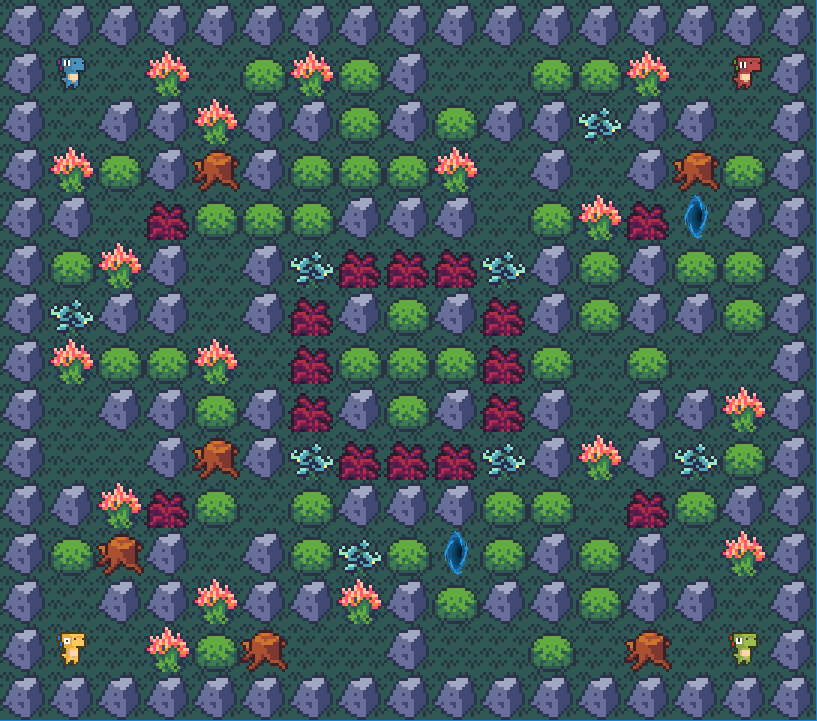
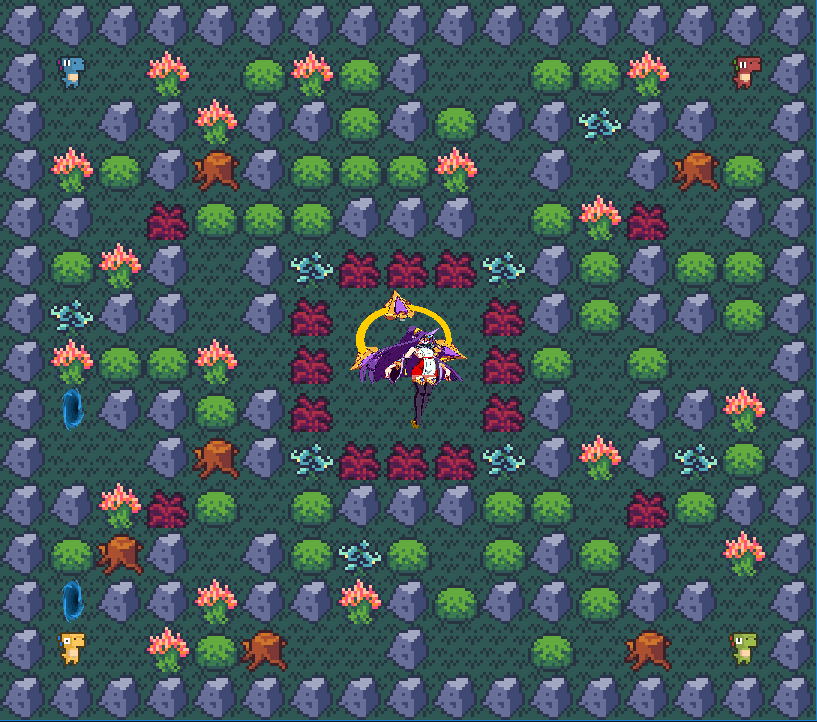
Add snow map

diff --git a/Map_Maker.py b/Map_Maker.py
@@ -6,12 +6,12 @@ Board = [[0 for i in range(17)] for j in range(15)]
 clicked = [[False for i in range(17)] for j in range(15)]
 screen = pygame.display.set_mode((20 * 48 , 20 * 48))
 for i in range(8):
-	Image_tmp = pygame.image.load(f'Game_Data/Image/Map_1/tile_{i}.png')
+	Image_tmp = pygame.image.load(f'Game_Data/Image/Map_2/tile_{i}.png')
 	Image_tmp = pygame.transform.scale(Image_tmp, (Cell_Width, Cell_Height))
 	Image.append(Image_tmp)
 running = True 
 gg = Button( 18*48, 0 * 48 ,Image[0] , 1)
-Board_File = open(f'Game_Data/Image/Map_1/Map.txt')
+Board_File = open(f'Game_Data/Image/Map_2/Map.txt')
 Str = Board_File.read()
 
 for t in range(0, len(Str)):
@@ -43,7 +43,7 @@ while running:
 			if(pygame.mouse.get_pressed()[0] == 0) : 
 				clicked[i][j] = False 
 			if action :
-				Board[i][j] = (Board[i][j] + 1) % 8
+				Board[i][j] = (Board[i][j] + 7) % 8
 			img = Image[Board[i][j]]
 			rect = img.get_rect()
 			rect.x = j * 48 
@@ -53,7 +53,7 @@ while running:
 
 	gg.draw(screen)
 	if (gg.isClicked(screen)) :
-		with open('Game_Data/Image/Map_1/Map.txt', "w") as o:
+		with open('Game_Data/Image/Map_2/Map.txt', "w") as o:
 			for i in range(15) :
 				for j in range(17) :
 					o.write(str(Board[i][j]))

diff --git a/Game_Window.py b/Game_Window.py
@@ -68,7 +68,7 @@ def Run(Map_State) :
 			for t in bomb_list :
 				if t[1] == 0:
 					isWall = 1
-					for i in range(2):
+					for i in range(4):
 						if t[0].rect.colliderect(Player_List[i].rect):
 							isWall = 0
 					t[1] = isWall
@@ -81,7 +81,7 @@ def Run(Map_State) :
 			for t in storm_list :
 				if t.draw(Game_Screen , destrucable_list , undestrucable_list ) == True :
 					storm_list.remove(t)
-		for i in range(2):
+		for i in range(4):
 			if(Player_List[i].alived == 0 and Player_List[i].player_lives >= 1 ) :
 				death_counter[0]+=1
 				if(death_counter[0] > death_cooldown) :

diff --git a/Map_Window.py b/Map_Window.py
@@ -12,7 +12,7 @@ def Run() :
 	Left_Button = Button(100, 335, Left_Image, 1)
 	Right_Button = Button(935, 335, Right_Image, 1)
 
-	Num_Map = 1
+	Num_Map = 2
 	Cur_Map = 0
 
 	pygame.time.delay(300)
@@ -51,9 +51,8 @@ def Run() :
 			Cur_Map += 1
 			Cur_Map %= Num_Map
 
-		for i in range(0 , Num_Map):
-			if Map_Button_List[i].isClicked(Map_Screen):
-				Game_Window.Run(i + 1)
-				exit()
+		if Map_Button_List[Cur_Map].isClicked(Map_Screen):
+			Game_Window.Run(Cur_Map + 1)
+			exit()
 		
 		pygame.display.update()
